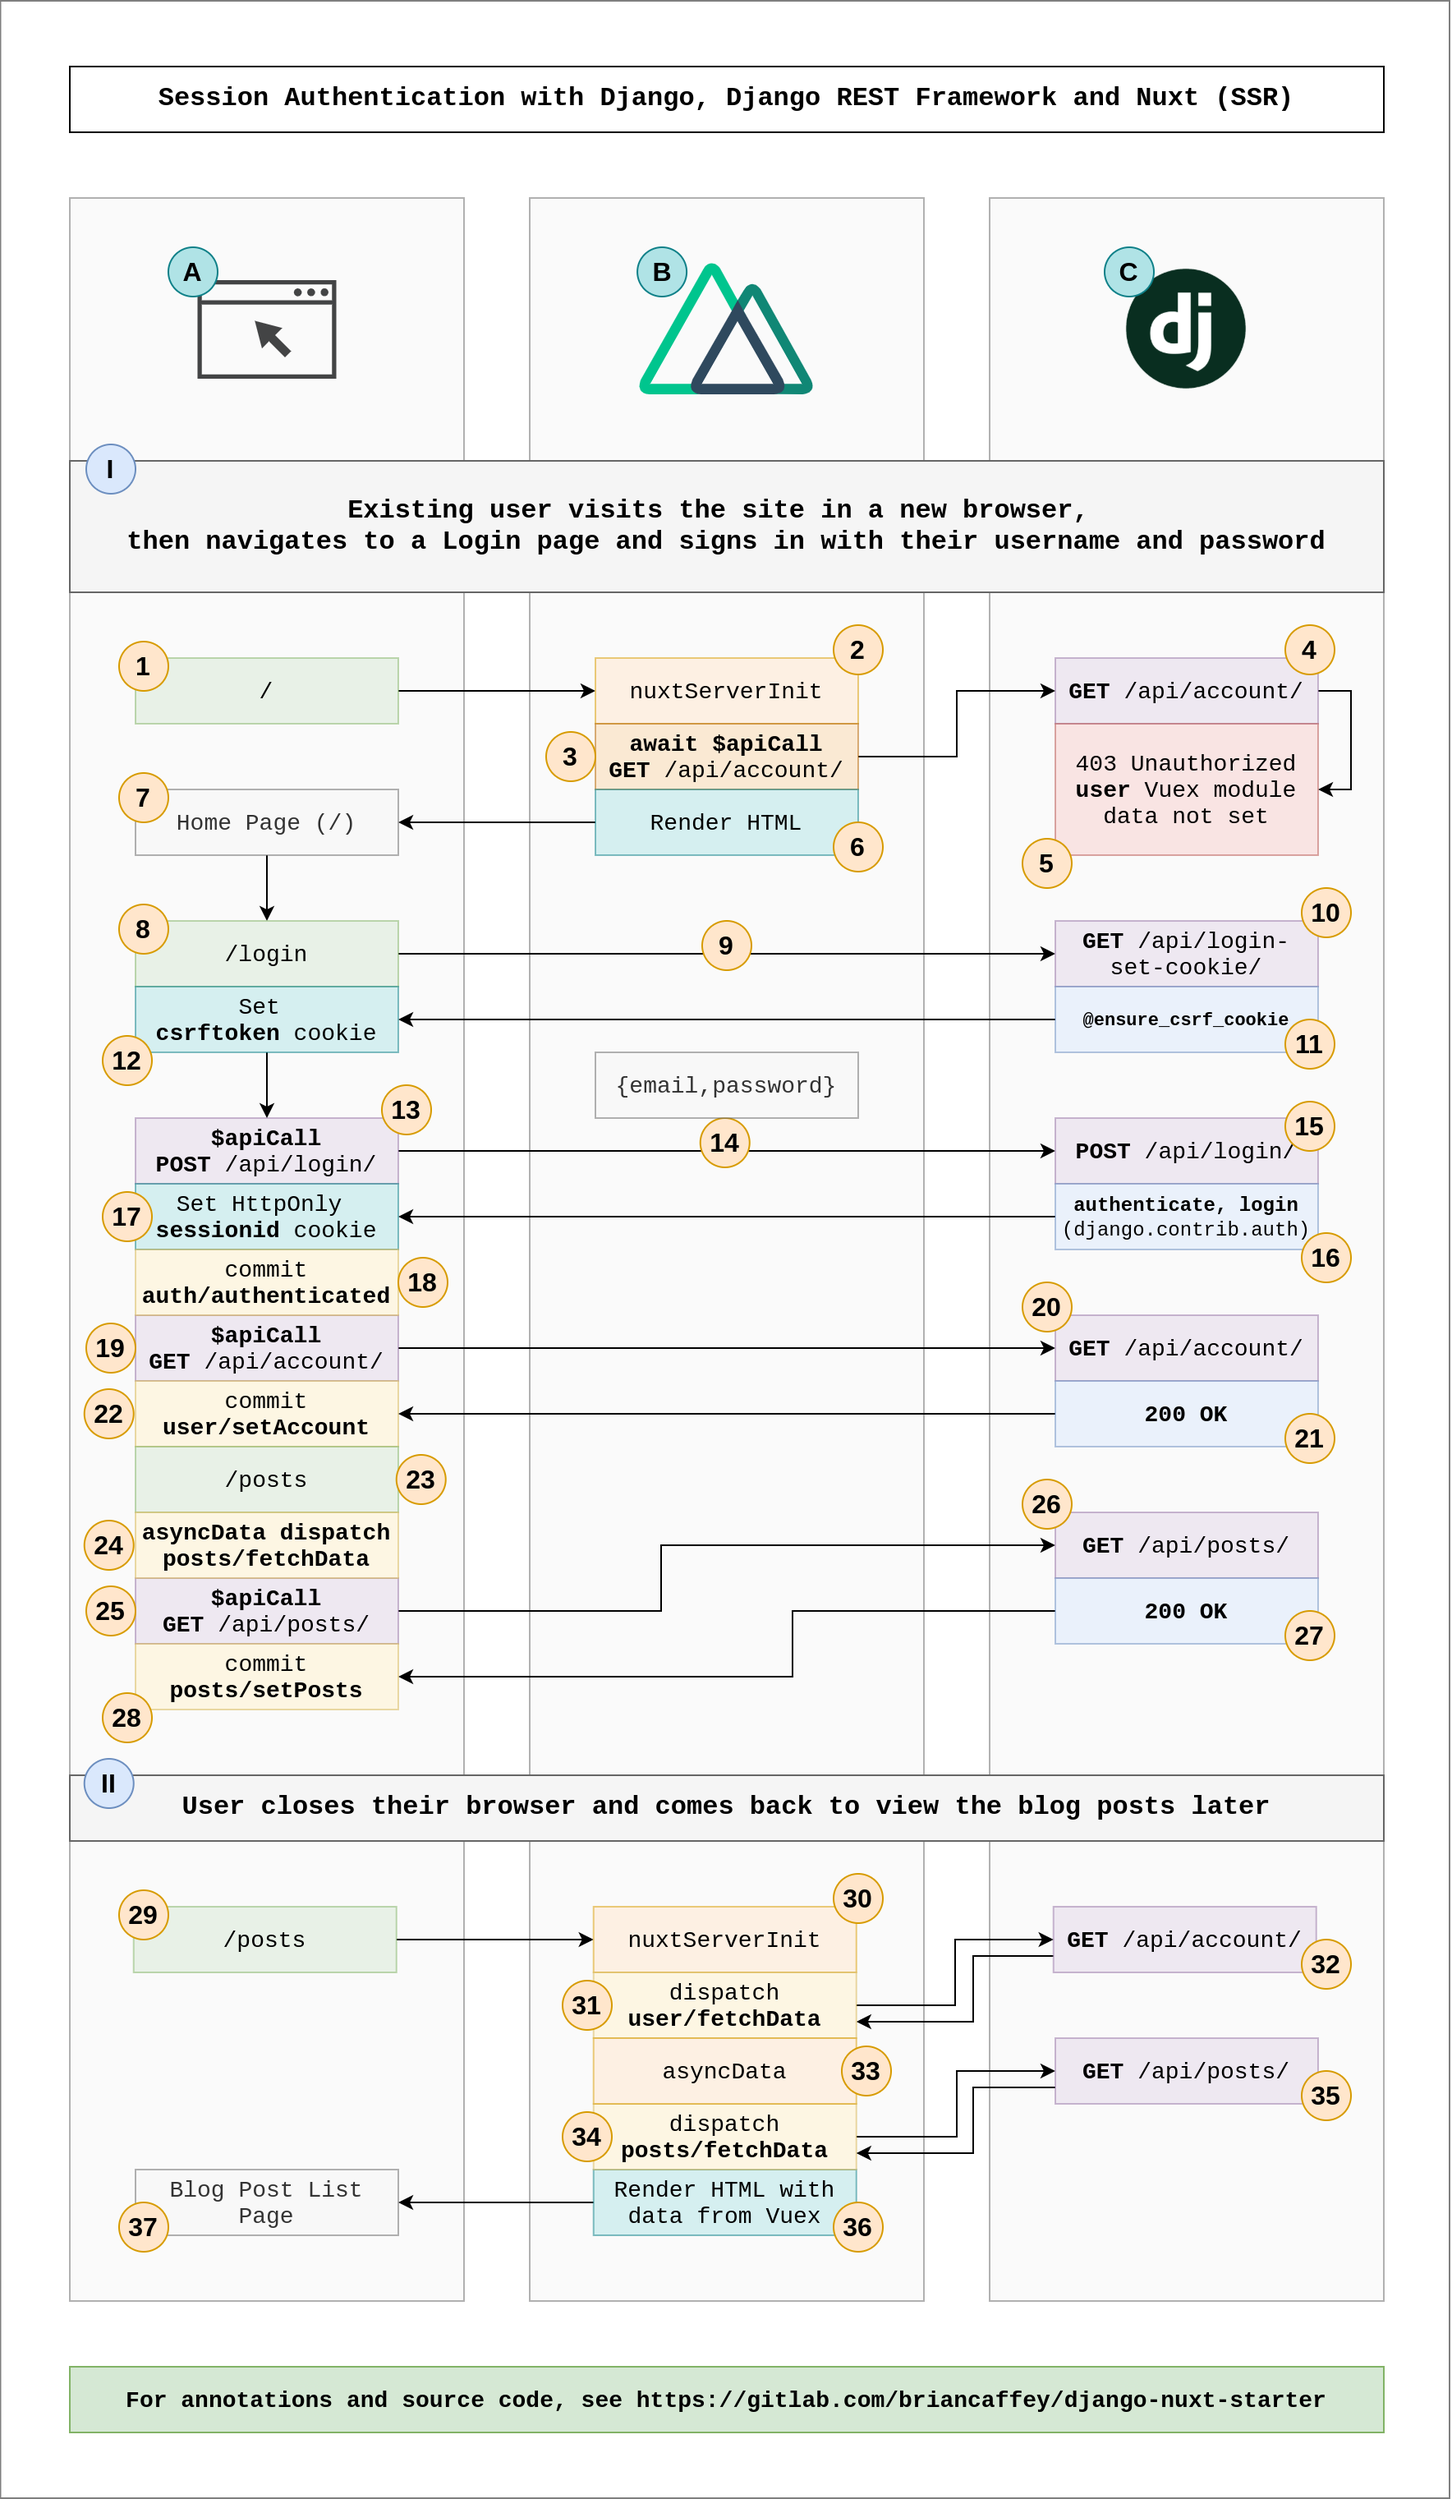
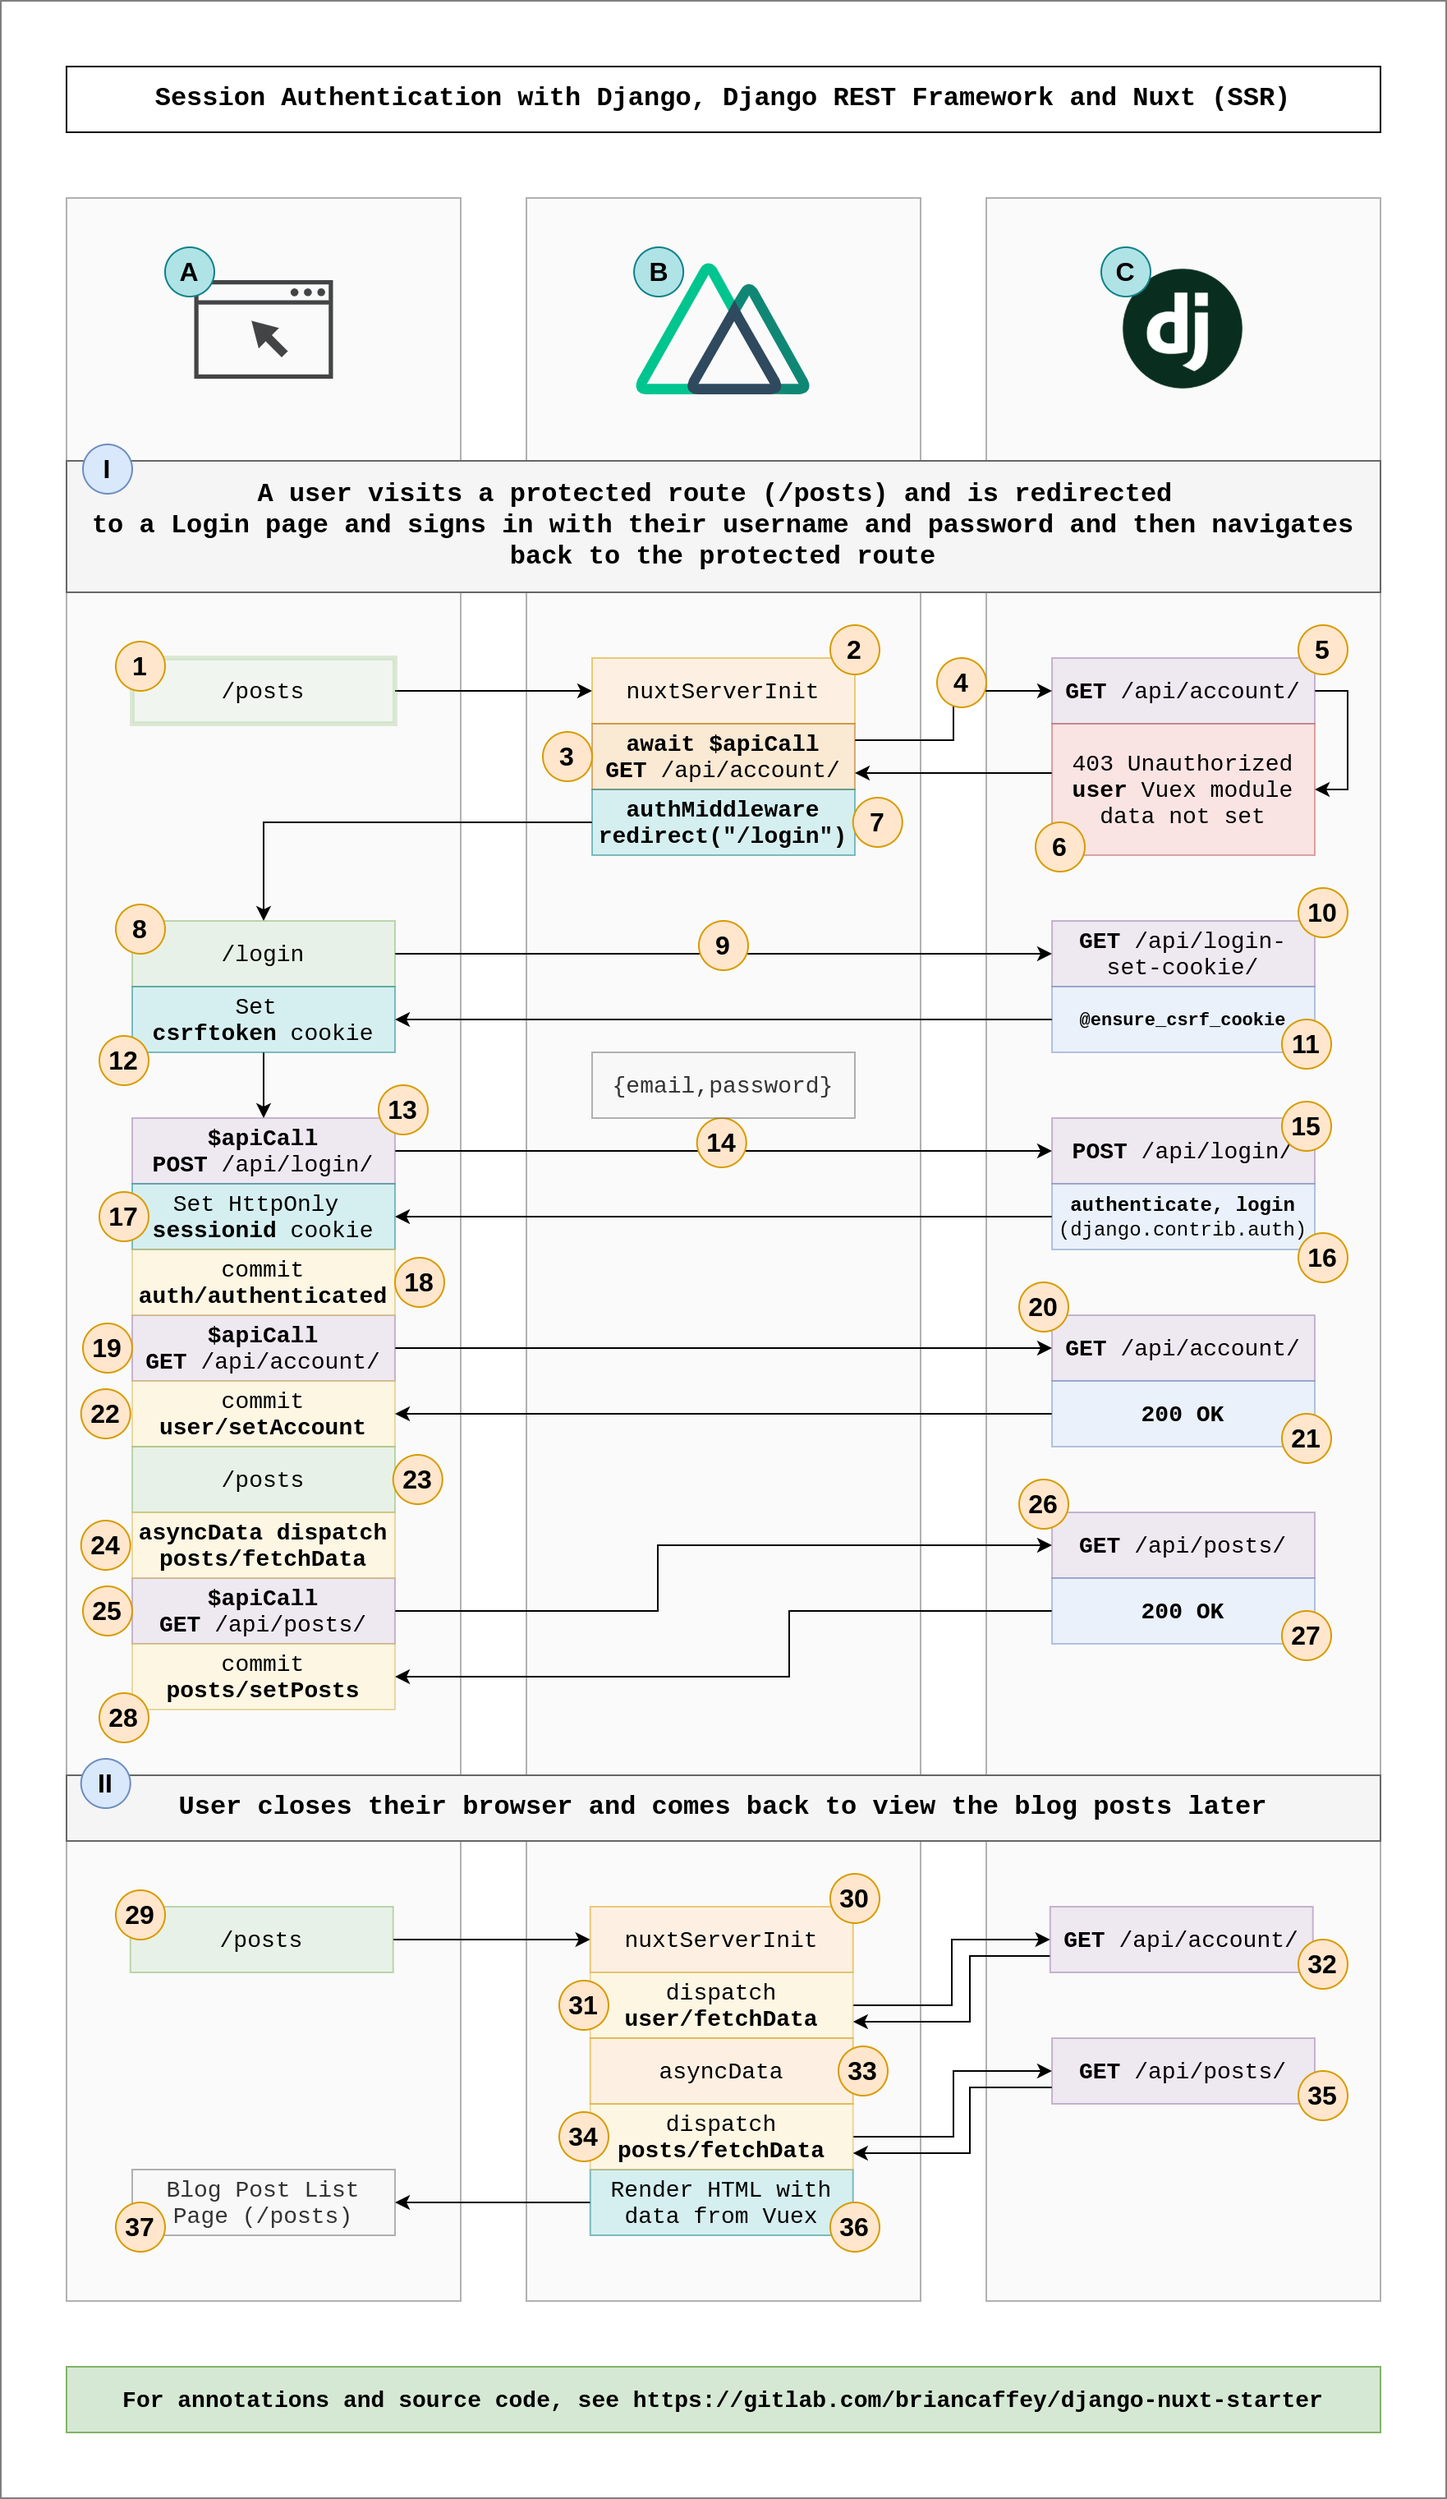
update article and image - nuxt auth

diff --git a/content/2021/01/01/session-authentication-with-django-django-rest-framework-and-nuxt.md b/content/2021/01/01/session-authentication-with-django-django-rest-framework-and-nuxt.md
@@ -93,7 +93,7 @@ Some important parts of Nuxt that this diagram does not (yet) touch on are:
 - Nuxt fetch property (different from the `fetch` web API)
 - Nuxt middleware (I'm also not sure if this would be helpful for anything I am doing in this example project)
 
-### User story I.: Visit site, login, navigate to `/posts`
+### User story I.: A user tries to open `/posts`, is redirected to `/login`, logs in, then navigate to `/posts` and sees blog posts
 
 1. User navigates to `http://domain.com/`. This request is handled by the Nuxt server.
 
@@ -101,15 +101,15 @@ Some important parts of Nuxt that this diagram does not (yet) touch on are:
 
 3. `nuxtServerInit` dispatches a Vuex action in the `user` module called `fetchData`. This action makes an GET request to `/api/account/` in the Django application.
 
-4. `/api/account/` gets the logged-in user's profile information.
+4. An API call to `/api/account/` is made to the Django backend directly from the Nuxt container over the docker network (`backend:8000`)
 
 5. If the request is made by an anonymous user (no user is logged in), a 403 response is returned to the Nuxt server and no account data is set in the Vuex store (on the server).
 
-6. The HTML is rendered for the Home Page
+6. Since the user is currently not logged in, the request returns a 403 response.
 
-7. The rendered HTML generated by Vuex is sent back to the browser.
+7. `authMiddleware` (on the Nuxt server) redirects the user to `/login` based on the value of `authenticated` in the Vuex store. The Original request for `/posts` returns a fully-rendered `/login/` page instead.
 
-8. The user navigates (via a `<router-link>`/`<nuxt-link>`) to the login page. Since the navigation happened through Vue router, no request to the Nuxt server is made.
+8. User is now on the Login page
 
 9. The `created` hook for the Login page makes a GET request to `/api/login-set-cookie/`.
 
@@ -196,3 +196,6 @@ I have seen that there is a Composition API module for Nuxt. I have only just no
 Nuxt looks like it has plans to support Vue 3, so I am interested to learn more about Vue 3 as it is adopted by Vue frameworks such as Nuxt and Quasar.
 
 ### Nuxt's fetch method, server middleware, Nuxt auth module
+
+
+I think I am using server middleware correctly, it can be improved by redirecting to the initial requested route after successful login. I'm not sure if I should use the Nuxt auth module in this application, I have read that it doesn't support HttpOnly cookie use cases, but I could be wrong.
